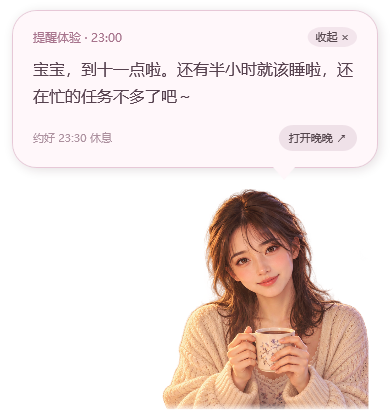
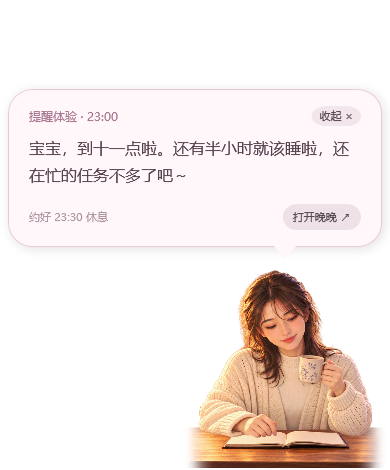
v0.4.1: release notes, README and screenshots of the borderless desk pet
All 18 Windows test groups pass.

Claude-Session: https://claude.ai/code/session_01G3B1SXPYJmTpcEmhbeBJzw

diff --git a/README.md b/README.md
@@ -33,7 +33,7 @@
 - ☆ **早睡打卡**：自动记录每晚有没有按时睡，显示连续早睡天数和最近 7 晚，早上见面时晚晚会告诉你昨晚的结果
 - ⬆ **一键更新**：「检查更新」直接从 GitHub 下载新版并自动重启，设置和打卡记录都保留
 - 💬 **两种晚晚可选：女友或姐姐**。女友爱撒娇，姐姐温柔又会管人，各有一套原创台词和离线 AI 配音；称呼可选（宝宝、亲爱的、小笨蛋），也可以不叫或用自己的名字
-- 🧸 **会自己找事做的桌宠**：隔一阵喝水、写字、伸懒腰，越接近睡觉时间越困。打开「晚晚陪伴」后，你看视频她一起看、打游戏她也玩、离开电脑她就趴下睡（只在本机判断程序类型，默认关闭）
+- 🧸 **会自己找事做的桌宠**：晚晚直接坐在你的桌面上（透明、无边框），隔一阵喝水、写字、伸懒腰，越接近睡觉时间越困。拖她移动，点她一下会回你，双击打开，右键有更多。打开「晚晚陪伴」后，你看视频她一起看、打游戏她也玩、离开电脑她就趴下睡（只在本机判断程序类型，默认关闭）
 - 🛡 **安全感优先**：默认不开启关机；正常关机不强杀程序；每晚可延期一次；有急事可以紧急取消
 
 ![运行时录制的角色动画](docs/screenshots/companion-animation.gif)
@@ -49,7 +49,7 @@
 
 | 书桌前的晚晚（喝水 / 你离开时趴着睡） | 准点提醒气泡 | 睡前收尾倒计时 |
 |:--:|:--:|:--:|
-| <img src="docs/screenshots/desk-pet-drink.png" width="142" alt="桌宠在书桌前喝水"> <img src="docs/screenshots/desk-pet-nap.png" width="142" alt="桌宠趴着睡、安静趴着"> | <img src="docs/screenshots/reminder-bubble.png" width="270" alt="带报时的提醒气泡"> | <img src="docs/screenshots/bedtime-countdown.png" width="270" alt="收尾倒计时"> |
+| <img src="docs/screenshots/desk-pet-drink.png" width="150" alt="桌宠在书桌前喝水"> <img src="docs/screenshots/desk-pet-nap.png" width="150" alt="桌宠趴着睡"> | <img src="docs/screenshots/reminder-bubble.png" width="270" alt="带报时的提醒气泡"> | <img src="docs/screenshots/bedtime-countdown.png" width="270" alt="收尾倒计时"> |
 
 | 起夜监督：关机后又偷偷开机 | 早上的早睡打卡 |
 |:--:|:--:|

diff --git a/docs/releases/v0.4.1.md b/docs/releases/v0.4.1.md
@@ -1,0 +1,17 @@
+## 晚晚 v0.4.1：桌宠就是晚晚本人
+
+**已经装了 v0.3.0 或 v0.4.0：** 在晚晚里点「检查更新」一键升级，设置和打卡记录都会保留。
+**第一次用：** 下载、解压，双击 `启动晚晚.vbs`（或 `启动晚晚.cmd`）。
+
+### 改进
+- **桌宠去掉了卡片。**屏幕上只有坐在书桌前的晚晚，透明背景、没有边框，也比原来大了一圈。
+- **直接在她身上操作，不再写说明文字：**
+  - 按住拖动
+  - 点她一下，她在头顶的气泡里回你一句
+  - 双击打开晚晚
+  - 右键：打开晚晚 / 设置 / 隐藏桌宠
+- **鼠标放到她身上**，头顶会冒出一个小气泡，写着今晚的守护状态和约好的睡觉时间。
+- **提醒和说话时**，气泡出现在她头顶，她自己留在原地不动。
+
+### English
+The desk pet is now just Wanwan at her desk on a transparent, borderless window, larger than before. Drag to move, click to poke, double-click to open, right-click for open / settings / hide. Tonight's status shows in a hover bubble, and reminders appear in a speech bubble above her.
